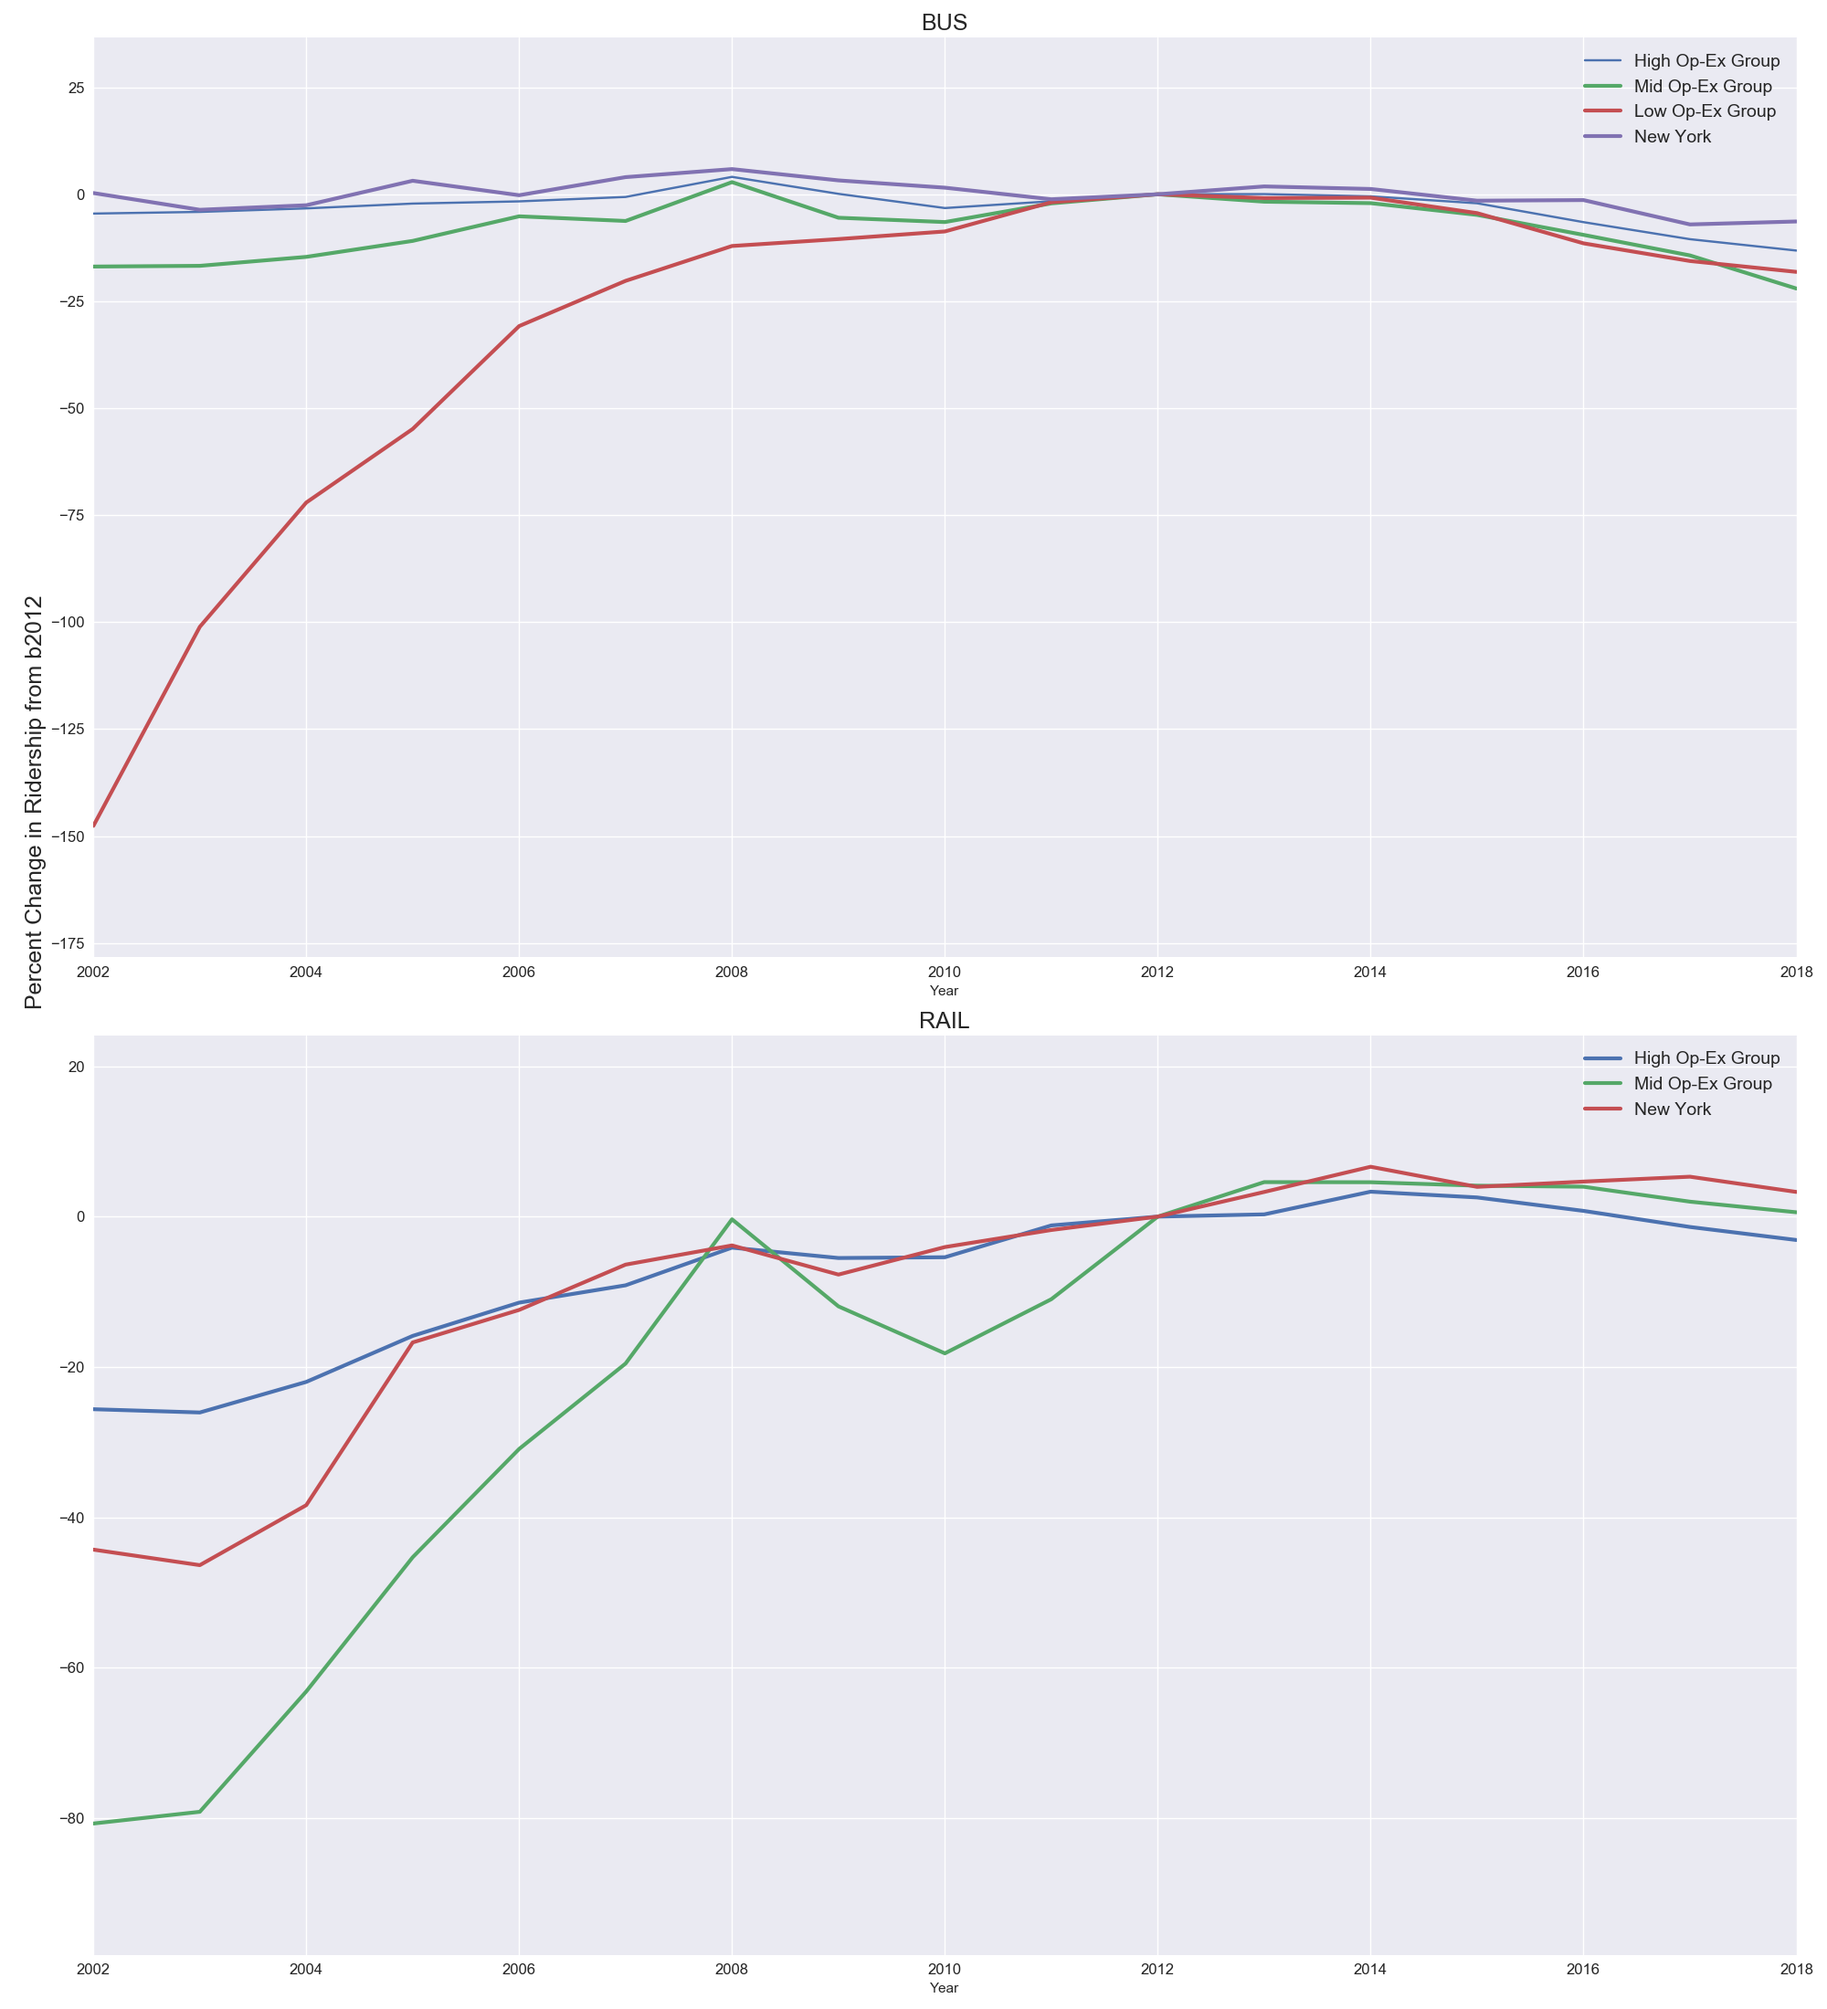
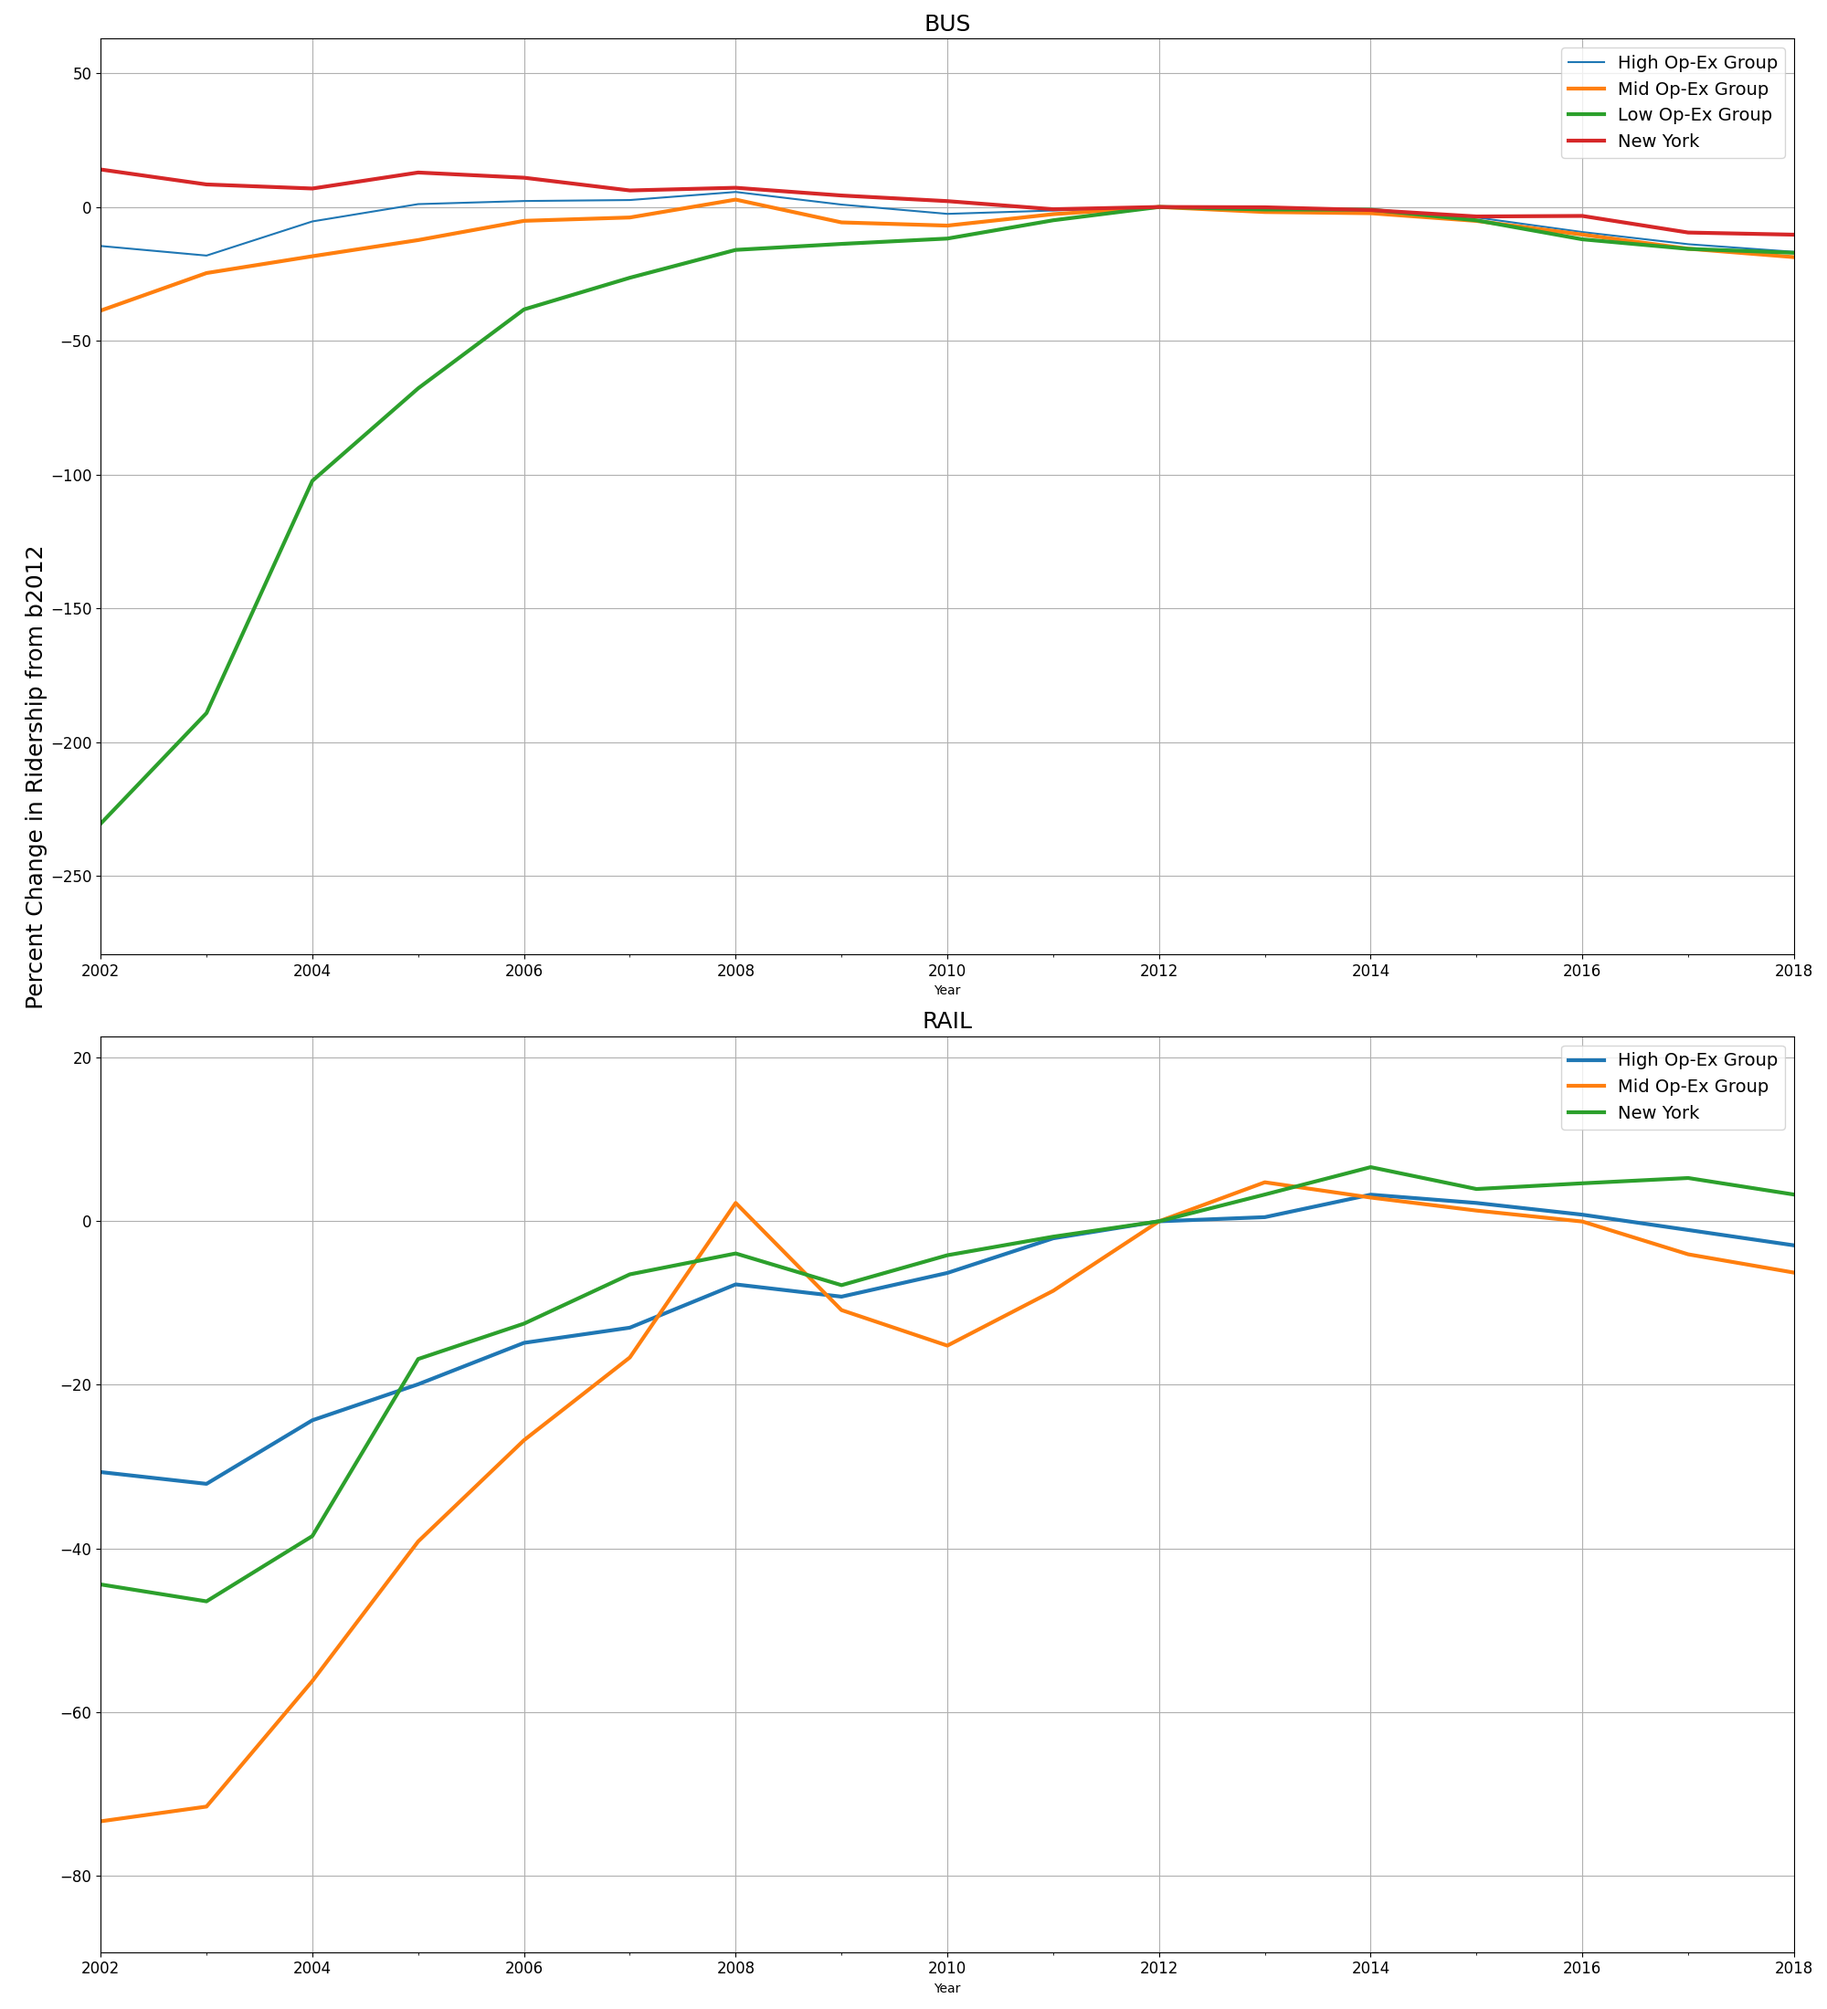
Revised charts for change in ridership (clusters)
Revised charts for change in ridership (clusters)

diff --git a/Factors and Ridership Data/code/Script-Est9.py b/Factors and Ridership Data/code/Script-Est9.py
@@ -592,7 +592,7 @@ def get_clusterwise_UPTs(_df, _filename, _chart_name, _clusterfile, pct_change_v
         current_dir = current_dir.parents[0] / 'Script Outputs'
         os.chdir(str(current_dir))
         print("Current set directory: ", current_dir)
-        outputdirectory = "Est7_Outputs"
+        outputdirectory = "Est11_Outputs/PCT_UPT_Change_Clusterwise"
         p = pathlib.Path(outputdirectory)
         p.mkdir(parents=True, exist_ok=True)
         current_dir = current_dir.parents[0] / 'Script Outputs' / outputdirectory
@@ -602,7 +602,7 @@ def get_clusterwise_UPTs(_df, _filename, _chart_name, _clusterfile, pct_change_v
         figlabel = ""
         fig.text(0.02, 0.4, ("Percent Change in Ridership from " + str(b)), ha='center', va='baseline',
                  rotation='vertical', fontsize=20)
-        figname = ("Est7 - Percent Change in Ridership from " + b + ".png")
+        figname = ("Percent Change in Ridership from " + b + ".png")
         figcounter += 1
         figlabel = ""
         fig.savefig(figname)
@@ -789,7 +789,7 @@ def create_clusterwise_pct(_filename, _clusterfile, _pct_change_value):
     try:
         # get the absolute path of the script and then check if the csv file exists or not
         current_dir = pathlib.Path(__file__).parent.absolute()
-        current_dir = current_dir.parents[0] / 'Model Estimation' / 'Est7'
+        current_dir = current_dir.parents[0] / 'Model Estimation' / 'Est11'
         os.chdir(str(current_dir))
         try:
             if (current_dir / filename).is_file():
@@ -1092,16 +1092,16 @@ def create_subclusterwise_pct(_filename, _clusterfile, _subcluster):
 def main():
     # get the UPT_FAC files created according to the base year
     # base year 2002
-    create_upt_fac_cluster_file("FAC_totals_APTA4_CLUSTERS.csv", "CLUSTER_APTA4", 2002, 2018)
+    # create_upt_fac_cluster_file("FAC_totals_APTA4_CLUSTERS.csv", "CLUSTER_APTA4", 2002, 2018)
     # # # # # # # # # base year 2012
-    create_upt_fac_cluster_file("FAC_totals_APTA4_CLUSTERS.csv", "CLUSTER_APTA4", 2012, 2018)
+    # create_upt_fac_cluster_file("FAC_totals_APTA4_CLUSTERS.csv", "CLUSTER_APTA4", 2012, 2018)
     # # # # # # # # get absolute charts
-    get_cluster_file_raw("UPT_FAC_totals_APTA4_CLUSTERS_b2002.csv", "CLUSTER_APTA4")
+    # get_cluster_file_raw("UPT_FAC_totals_APTA4_CLUSTERS_b2002.csv", "CLUSTER_APTA4")
     # # #  # get pct change in core cluster
-    create_clusterwise_pct("UPT_FAC_totals_APTA4_CLUSTERS_b2002.csv", "CLUSTER_APTA4", "2002")
-    create_clusterwise_pct("UPT_FAC_totals_APTA4_CLUSTERS_b2002.csv", "CLUSTER_APTA4", "2012")
+    # create_clusterwise_pct("UPT_FAC_totals_APTA4_CLUSTERS_b2002.csv", "CLUSTER_APTA4", "2002")
+    create_clusterwise_pct("FAC_APTA4_CLUSTERS_11-19.csv", "CLUSTER_APTA4", "2012")
     # create_clusterwise_pct("UPT_FAC_totals_APTA4_CLUSTERS_b2012.csv", "CLUSTER_APTA4", "2012")
-    create_subclusterwise_pct("ridership_cluster.csv", "CLUSTER_APTA4", "APTA4_SUBCLUSTER")
+    # create_subclusterwise_pct("ridership_cluster.csv", "CLUSTER_APTA4", "APTA4_SUBCLUSTER")
 
 
 if __name__ == "__main__":
